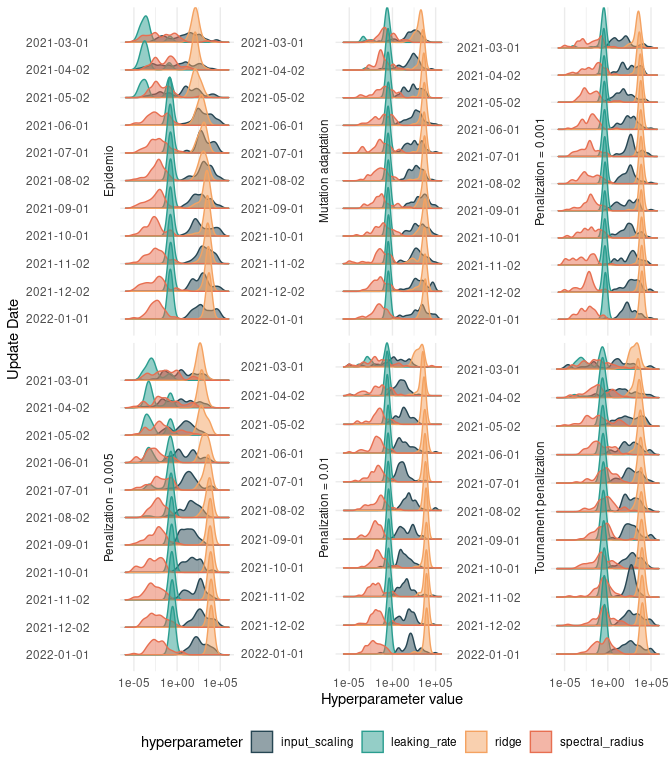
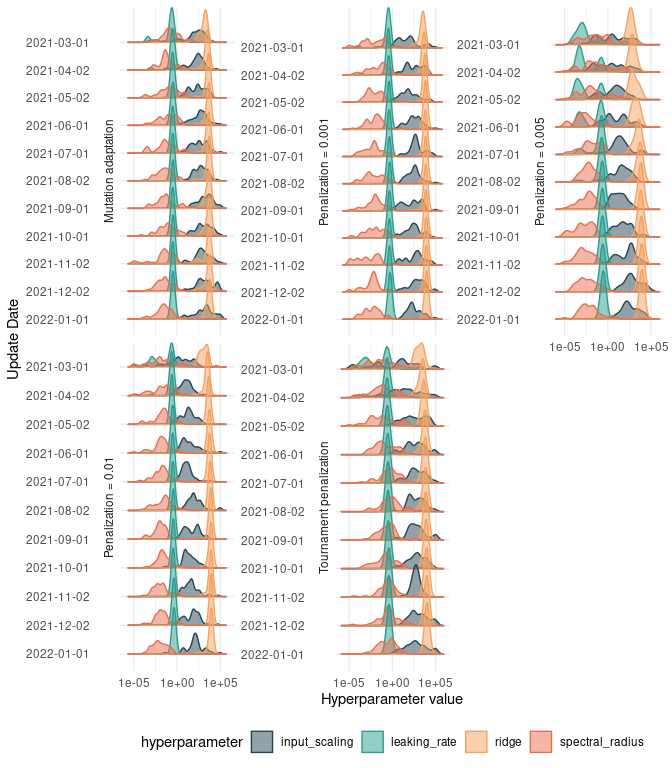
update results

diff --git a/script/results_high_dim_rc_exp2.md b/script/results_high_dim_rc_exp2.md
@@ -86,8 +86,52 @@ date.](results_high_dim_rc_exp2_files/figure-commonmark/unnamed-chunk-6-1.png)
 ![Number of selected features among the best genetic
 individuals.](results_high_dim_rc_exp2_files/figure-commonmark/unnamed-chunk-7-1.png)
 
+| model                   | 2021-03-01    | 2022-01-01    |
+|:------------------------|:--------------|:--------------|
+| Mutation adaptation     | 150.3(± 28.3) | 23.6(± 6.3)   |
+| Penalization = 0.001    | 204.8(± 10.2) | 208.3(± 10)   |
+| Penalization = 0.005    | 204.9(± 10.1) | 202.4(± 10.4) |
+| Penalization = 0.01     | 201.7(± 10)   | 199.9(± 10.4) |
+| Tournament penalization | 200.1(± 9.7)  | 196(± 9.1)    |
+
+Number of features selected at first and last month. Mean (sd)
+
 ![](results_high_dim_rc_exp2_files/figure-commonmark/freqselectionfeatures-1.png)
 
-![](results_high_dim_rc_exp2_files/figure-commonmark/unnamed-chunk-8-1.png)
+<!-- ```{r fig.height=8} -->
+<!-- df_plot <- df_freq_selection |>  -->
+<!--   filter(model == "Epidemio") |>  -->
+<!--   group_by(name) |>  -->
+<!--   mutate(mean_prop = sum(value*(last_used_observation == "2022-01-01"))) |> -->
+<!--   ungroup() |>  -->
+<!--   mutate(name = FctCleanFeaturesName(name), -->
+<!--          name = as.factor(name), -->
+<!--          name = forcats::fct_reorder(name, -mean_prop), -->
+<!--          deriv = grepl(name, pattern = "(1st d)"), -->
+<!--          deriv = factor(deriv, -->
+<!--                         levels = c(F,T), -->
+<!--                         labels = c("Raw", "1st derivative"))) -->
+<!-- ggplot(data = df_plot, -->
+<!--        mapping = aes(y = value, -->
+<!--                      x = last_used_observation, -->
+<!--                      group = name, -->
+<!--                      label = name, -->
+<!--                      color = name)) + -->
+<!--   geom_line() + -->
+<!--   geom_text_repel(data = df_plot |>  -->
+<!--                     filter(last_used_observation == "2022-01-01"), -->
+<!--                   size = 3, -->
+<!--                   nudge_x = 6, -->
+<!--                   direction = "y", -->
+<!--                   force = 5, -->
+<!--                   arrow = arrow(length = unit(0.01, "npc"), type = "closed")) + -->
+<!--   scale_y_continuous(breaks = c(0,.5,1), limits = c(0,1)) + -->
+<!--   scale_color_viridis_d(option = "B", end = 0.85) + -->
+<!--   theme_minimal() + -->
+<!--   theme(axis.text.x = element_text(angle = 90), -->
+<!--         legend.position = "none") + -->
+<!--   labs(y = "Frequency of feature selection", -->
+<!--        x = "Date update") -->
+<!-- ``` -->
 
 ![](results_high_dim_rc_exp2_files/figure-commonmark/unnamed-chunk-9-1.png)
